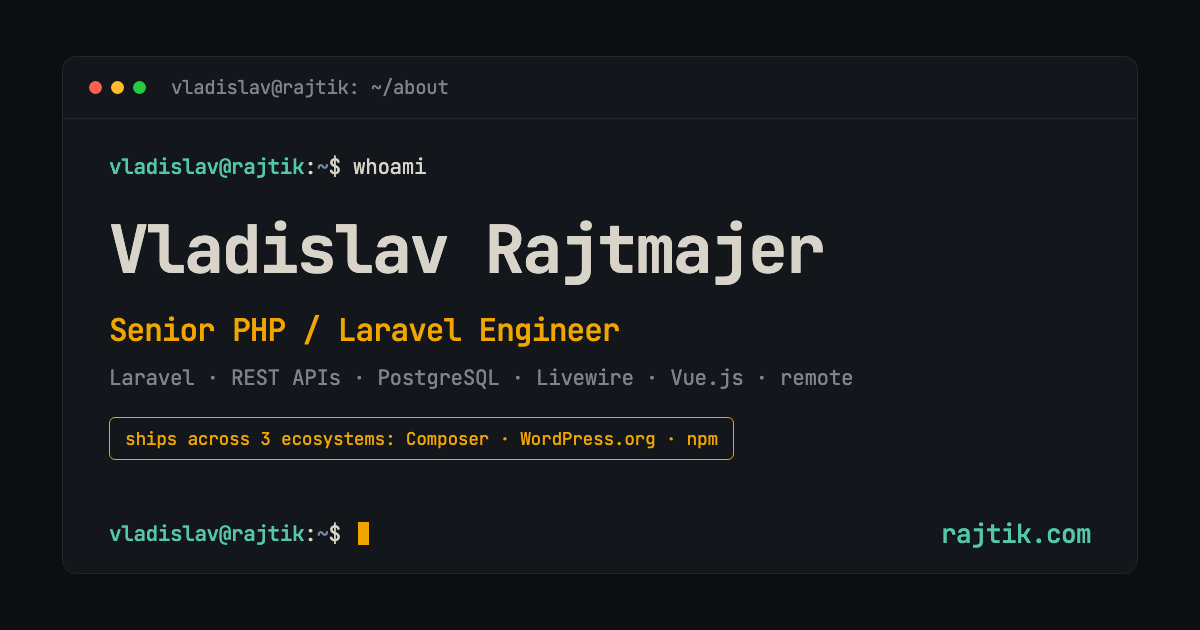
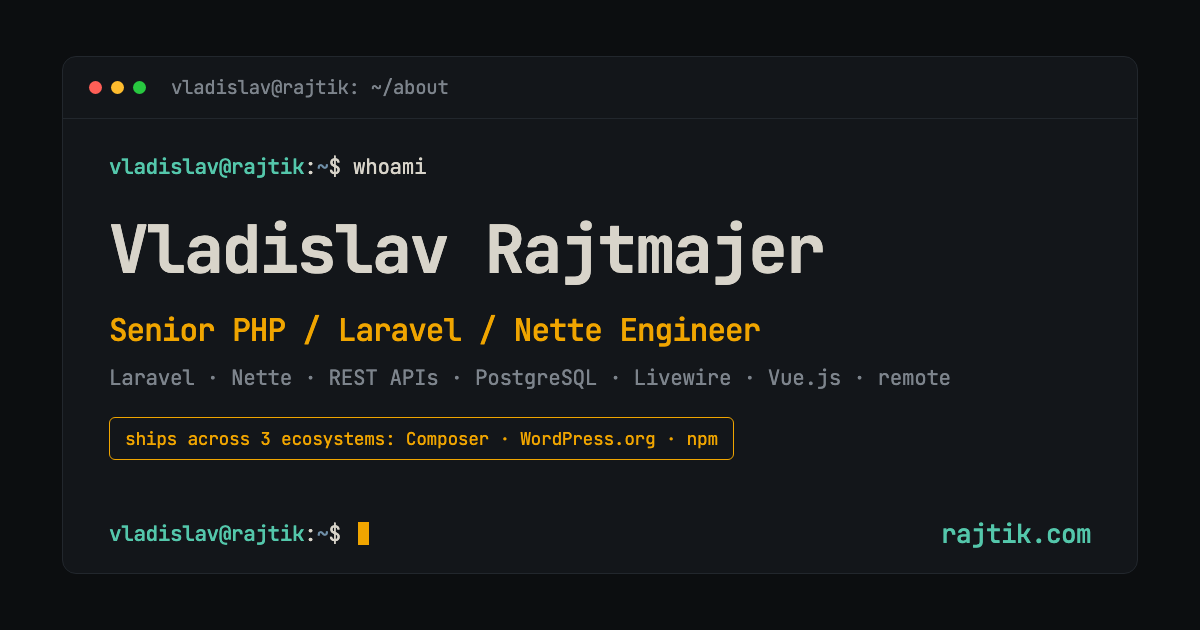
feat(og): add Nette to social card

Changed region(s): [[0.185, 0.573, 0.7092, 0.6333], [0.4008, 0.4825, 0.6475, 0.5429], [0.74, 0.573, 0.8017, 0.6333]]

diff --git a/og-src/og.html b/og-src/og.html
@@ -83,8 +83,8 @@
       <p class="pr"><b>vladislav@rajtik</b>:<span class="tilde">~</span>$ <span class="cmd">whoami</span></p>
 
       <h1>Vladislav Rajtmajer</h1>
-      <p class="role">Senior PHP / Laravel Engineer</p>
-      <p class="meta">Laravel · REST APIs · PostgreSQL · Livewire · Vue.js · remote</p>
+      <p class="role">Senior PHP / Laravel / Nette Engineer</p>
+      <p class="meta">Laravel · Nette · REST APIs · PostgreSQL · Livewire · Vue.js · remote</p>
 
       <span class="badge">ships across 3 ecosystems: Composer · WordPress.org · npm</span>
 
